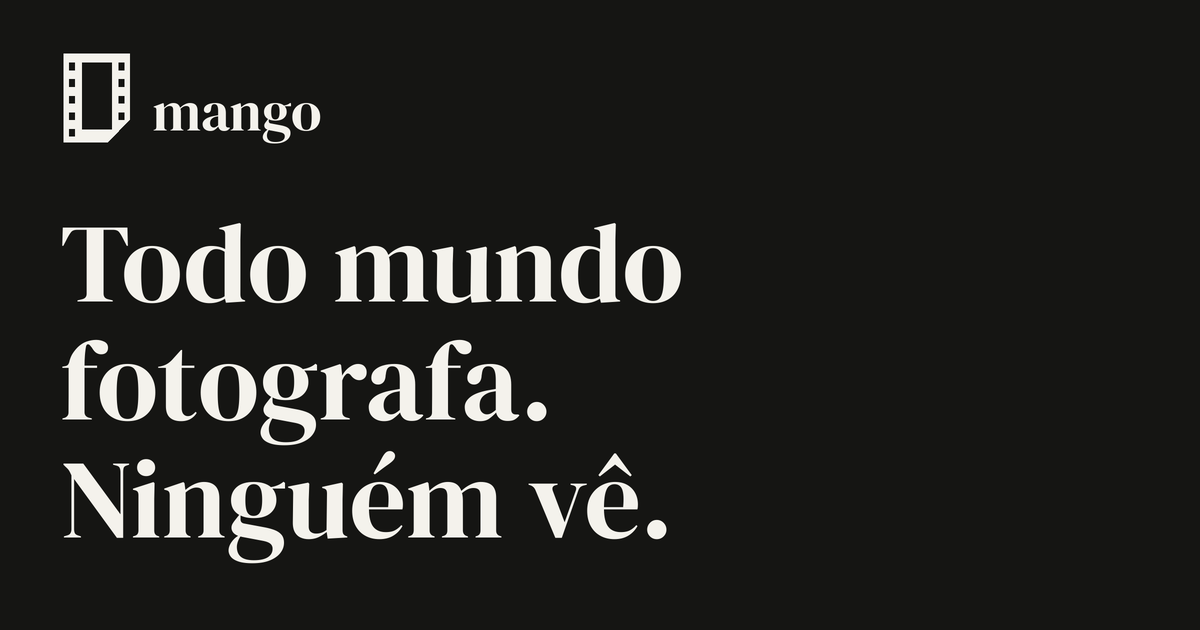
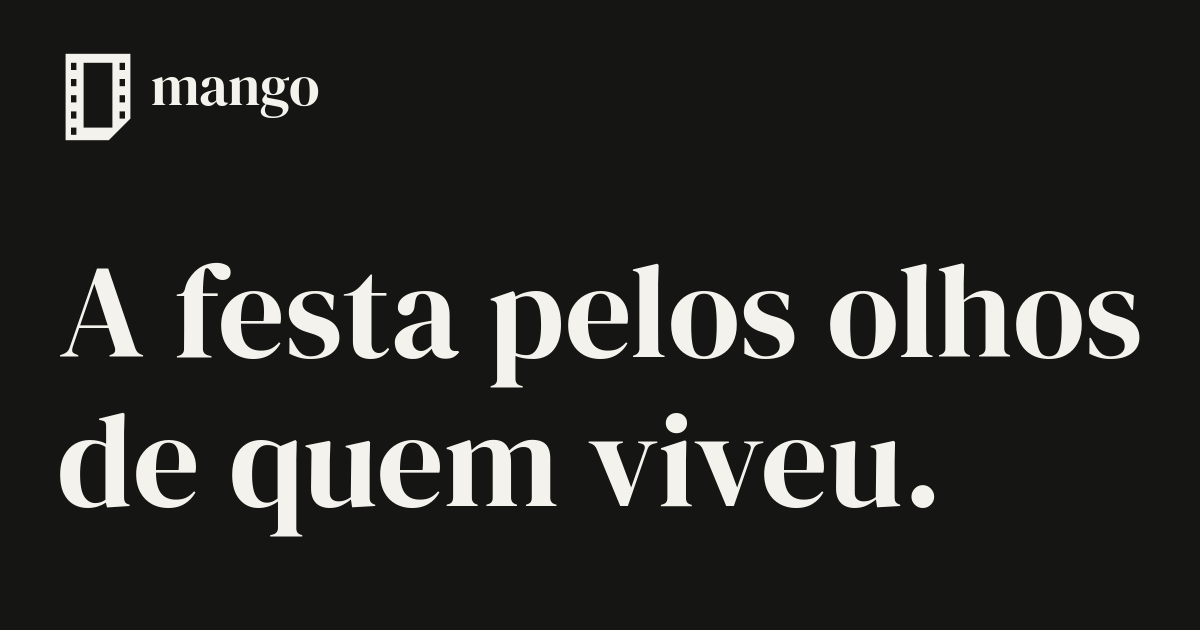
Nova imagem de compartilhamento: A festa pelos olhos de quem viveu
Troca o og.png pelo texto novo, mesmo logo, fonte e cores. O og:image ganha ?v=2 para o WhatsApp e as redes buscarem a imagem de novo, e o texto alternativo acompanha a imagem.

Changed region(s): [[0.0308, 0.3619, 0.9558, 0.9048], [0.0308, 0.0905, 0.2775, 0.2413]]

diff --git a/index.html b/index.html
@@ -19,10 +19,10 @@
       property="og:description"
       content="Mango — a câmera digital compartilhada da sua festa. Os convidados fotografam pelo celular e as fotos são reveladas depois."
     />
-    <meta property="og:image" content="https://mangocamera.com/og.png" />
+    <meta property="og:image" content="https://mangocamera.com/og.png?v=2" />
     <meta property="og:image:width" content="1200" />
     <meta property="og:image:height" content="630" />
-    <meta property="og:image:alt" content="mango: Todo mundo fotografa. Ninguém vê." />
+    <meta property="og:image:alt" content="Mango: A festa pelos olhos de quem viveu." />
     <meta name="twitter:card" content="summary_large_image" />
     <meta name="twitter:title" content="A festa pelos olhos de quem viveu. 🥭📸" />
     <meta
